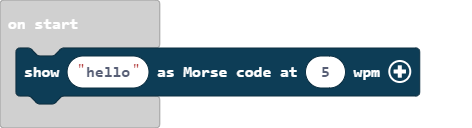
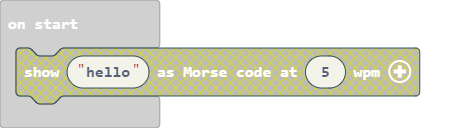
Update main.blocks, main.ts

Changed region(s): [[0.0297, 0.375, 0.8898, 0.8125]]

diff --git a/main.ts b/main.ts
@@ -1,4 +1,3 @@
-encoding.showMorseCode("hello", 5)
 basic.forever(function () {
 	
 })
